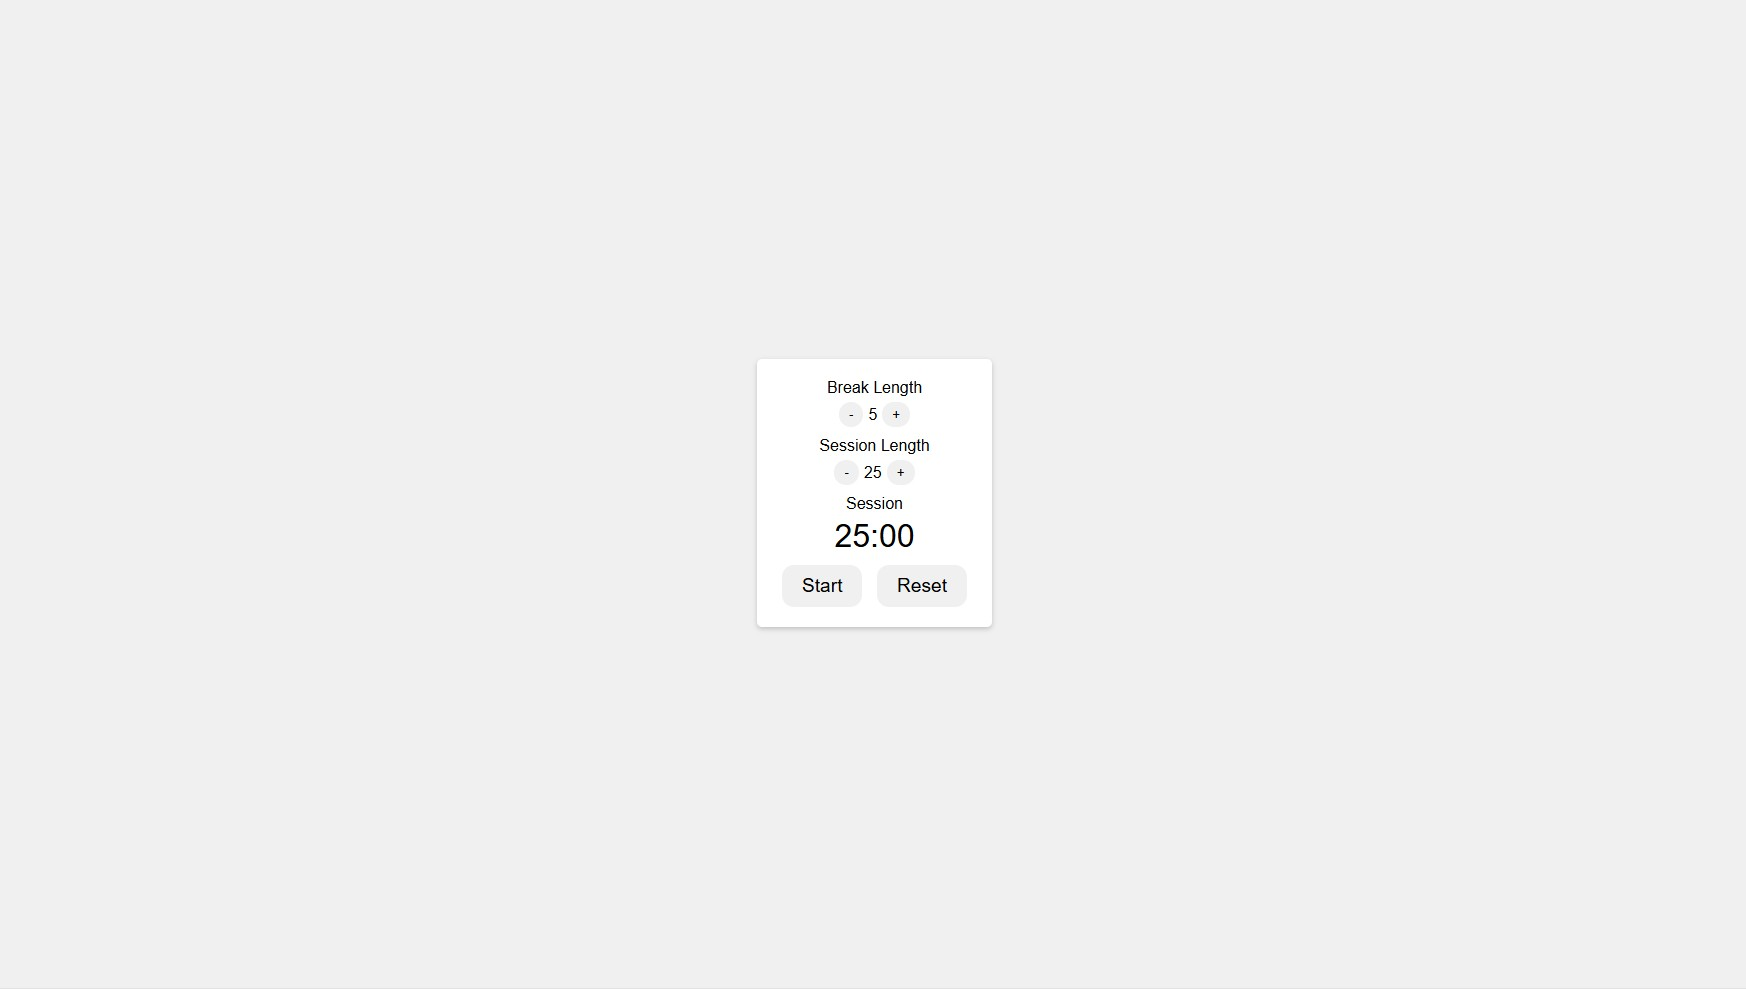
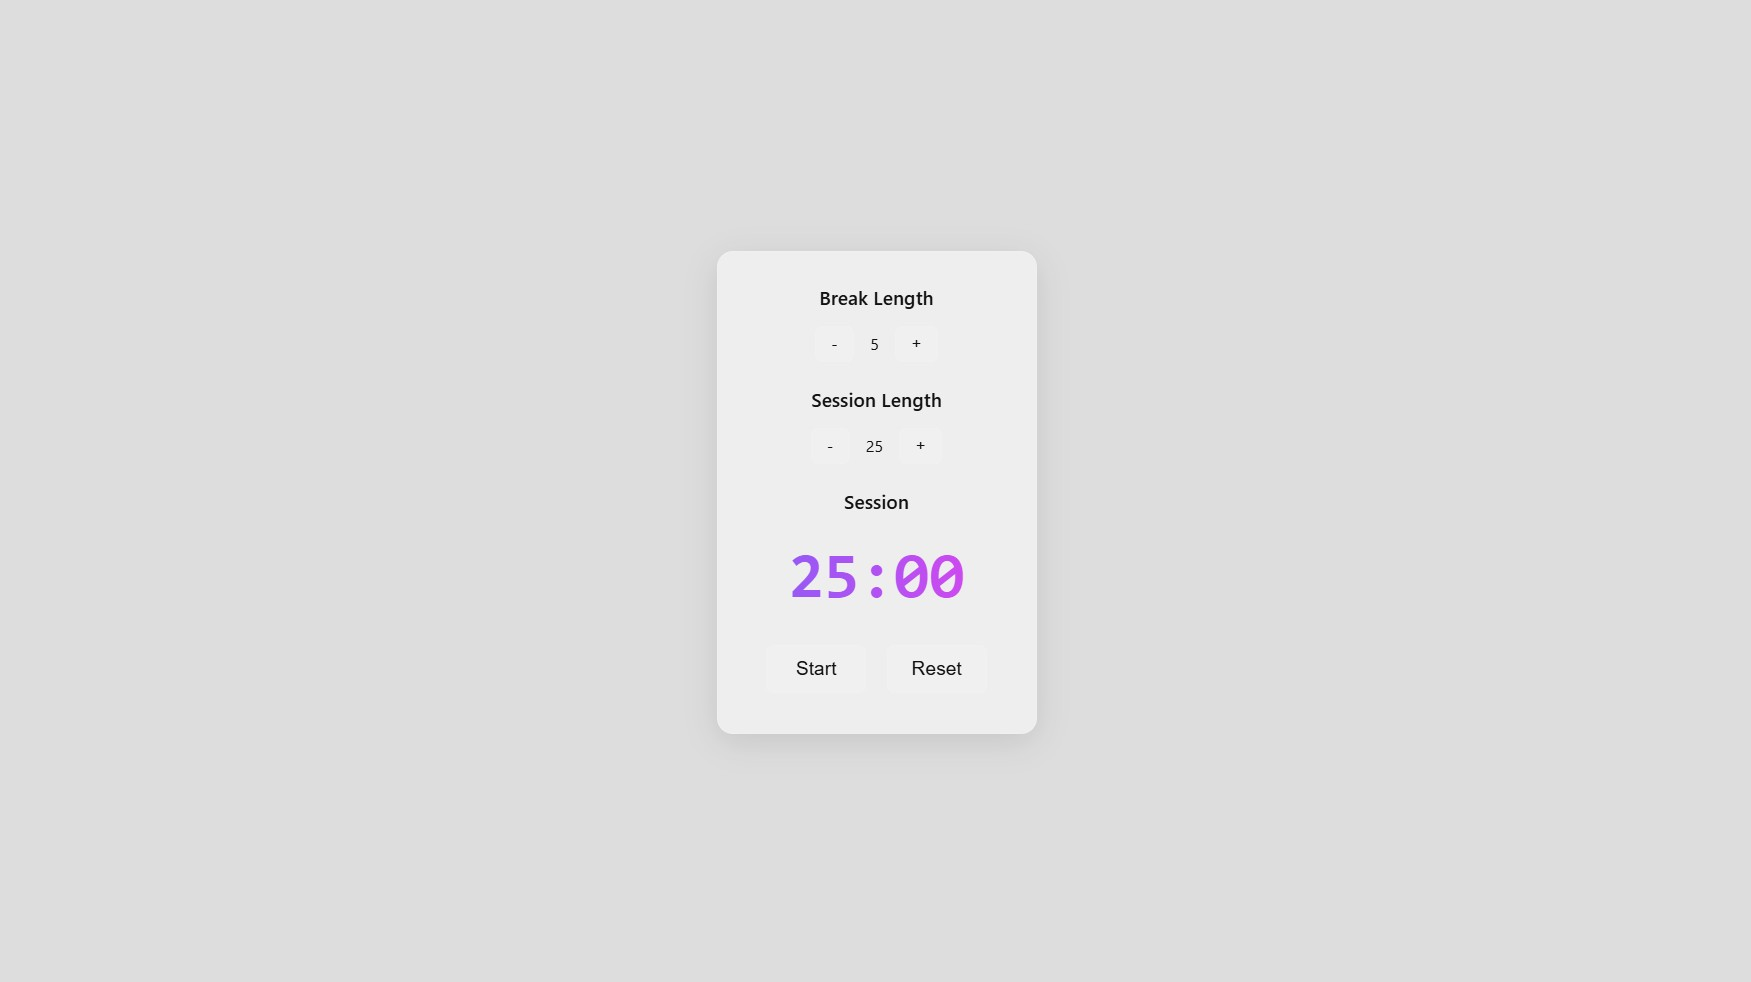
add pomodoro timer styles update

diff --git a/projects/pomodoro/script.js b/projects/pomodoro/script.js
@@ -1,95 +1,104 @@
 const timer = {
-    breakLength: 5,
-    sessionLength: 25,
-    timeLeft: 25 * 60, // Time in seconds
-    timerLabel: "Session",
-    running: false,
-    intervalId: null,
-    beep: document.getElementById("beep"),
+  breakLength: 5,
+  sessionLength: 25,
+  timeLeft: 25 * 60, // Time in seconds
+  timerLabel: "Session",
+  running: false,
+  intervalId: null,
+  beep: document.getElementById("beep"),
+  progressBg: document.querySelector('.progress-background'),
+  initialTime: 25 * 60, // Store initial time for progress calculation
   
-    updateDisplay: function() {
+  updateProgress: function() {
+      const progress = (this.timeLeft / this.initialTime) * 100;
+      const translateX = 100 - progress; // Inverse the progress for left-to-right movement
+      this.progressBg.style.transform = `translateX(${translateX}%)`;
+  },
+  updateDisplay: function() {
       const minutes = Math.floor(this.timeLeft / 60);
       const seconds = this.timeLeft % 60;
       const formattedTime = `${minutes.toString().padStart(2, '0')}:${seconds.toString().padStart(2, '0')}`;
       document.getElementById("time-left").textContent = formattedTime;
-    },
-  
-    startStop: function() {
+      this.updateProgress();
+  },
+  startStop: function(reset) {
+    if(reset){
       this.running = !this.running;
-      document.getElementById("start_stop").textContent = this.running ? "Pause" : "Start";
-  
-      if (this.running) {
+    }
+    document.getElementById("start_stop").textContent = this.running ? "Pause" : "Start";
+    if (this.running) {
         this.intervalId = setInterval(() => {
-          this.timeLeft--;
-          this.updateDisplay();
-  
-          if (this.timeLeft < 0) {
-            clearInterval(this.intervalId);
-            this.beep.play();
-  
-            if (this.timerLabel === "Session") {
-              this.timerLabel = "Break";
-              this.timeLeft = this.breakLength * 60;
-            } else {
-              this.timerLabel = "Session";
-              this.timeLeft = this.sessionLength * 60;
+            this.timeLeft--;
+            this.updateDisplay();
+            if (this.timeLeft < 0) {
+                clearInterval(this.intervalId);
+                this.beep.play();
+                if (this.timerLabel === "Session") {
+                    this.timerLabel = "Break";
+                    this.timeLeft = this.breakLength * 60;
+                    this.initialTime = this.breakLength * 60;
+                } else {
+                    this.timerLabel = "Session";
+                    this.timeLeft = this.sessionLength * 60;
+                    this.initialTime = this.sessionLength * 60;
+                }
+                document.getElementById("timer-label").textContent = this.timerLabel;
+                this.updateDisplay();
+                this.startStop(false); // Auto-start the next timer
             }
-             this.updateDisplay();
-            this.startStop(); // Auto-start the next timer
-          }
         }, 1000);
-      } else {
+    } else {
         clearInterval(this.intervalId);
-      }
-    },
-  
-    reset: function() {
+    }
+  },
+  reset: function() {
       clearInterval(this.intervalId);
       this.running = false;
       document.getElementById("start_stop").textContent = "Start";
       this.breakLength = 5;
       this.sessionLength = 25;
       this.timeLeft = 25 * 60;
+      this.initialTime = 25 * 60;
       this.timerLabel = "Session";
+      document.getElementById("timer-label").textContent = this.timerLabel;
       this.updateDisplay();
       document.getElementById("break-length").textContent = this.breakLength;
       document.getElementById("session-length").textContent = this.sessionLength;
       this.beep.pause();
       this.beep.currentTime = 0;
-    },
-  
-    increment: function(type) {
+      this.progressBg.style.transform = 'translateX(-100%)';
+  },
+  increment: function(type) {
       const length = type === "break" ? "breakLength" : "sessionLength";
       if (this[length] < 60) {
-        this[length]++;
-        document.getElementById(`${type}-length`).textContent = this[length];
-        if (!this.running && type === "session") {
-          this.timeLeft = this[length] * 60;
-          this.updateDisplay();
-        }
+          this[length]++;
+          document.getElementById(`${type}-length`).textContent = this[length];
+          if (!this.running && type === "session") {
+              this.timeLeft = this[length] * 60;
+              this.initialTime = this[length] * 60;
+              this.updateDisplay();
+          }
       }
-    },
-  
-    decrement: function(type) {
+  },
+  decrement: function(type) {
       const length = type === "break" ? "breakLength" : "sessionLength";
       if (this[length] > 1) {
-        this[length]--;
-        document.getElementById(`${type}-length`).textContent = this[length];
-         if (!this.running && type === "session") {
-          this.timeLeft = this[length] * 60;
-          this.updateDisplay();
-        }
+          this[length]--;
+          document.getElementById(`${type}-length`).textContent = this[length];
+          if (!this.running && type === "session") {
+              this.timeLeft = this[length] * 60;
+              this.initialTime = this[length] * 60;
+              this.updateDisplay();
+          }
       }
-    },
-  };
-  
-  // Event listeners
-  document.getElementById("break-decrement").addEventListener("click", () => timer.decrement("break"));
-  document.getElementById("break-increment").addEventListener("click", () => timer.increment("break"));
-  document.getElementById("session-decrement").addEventListener("click", () => timer.decrement("session"));
-  document.getElementById("session-increment").addEventListener("click", () => timer.increment("session"));
-  document.getElementById("start_stop").addEventListener("click", () => timer.startStop());
-  document.getElementById("reset").addEventListener("click", () => timer.reset());
-  
-  // Initial display update
-  timer.updateDisplay();
+  },
+};
+// Event listeners
+document.getElementById("break-decrement").addEventListener("click", () => timer.decrement("break"));
+document.getElementById("break-increment").addEventListener("click", () => timer.increment("break"));
+document.getElementById("session-decrement").addEventListener("click", () => timer.decrement("session"));
+document.getElementById("session-increment").addEventListener("click", () => timer.increment("session"));
+document.getElementById("start_stop").addEventListener("click", () => timer.startStop(true));
+document.getElementById("reset").addEventListener("click", () => timer.reset());
+// Initial display update
+timer.updateDisplay();

diff --git a/projects/pomodoro/styles.css b/projects/pomodoro/styles.css
@@ -1,47 +1,120 @@
+:root {
+  --primary-bg: #DDDDDD;
+  --component-bg: rgba(255, 255, 255, 0.5);
+  --text-color: #121212;
+  --accent-1: #8B5CF6;
+  --accent-2: #D946EF;
+  --accent-3: #F97316;
+  --accent-4: #0EA5E9;
+}
+* {
+  margin: 0;
+  padding: 0;
+  box-sizing: border-box;
+}
 body {
-    font-family: sans-serif;
-    display: flex;
-    justify-content: center;
-    align-items: center;
-    min-height: 100vh;
-    margin: 0;
-    background-color: #f0f0f0;
-    border-radius: 32px;
-  }
-  
+  font-family: system-ui, -apple-system, sans-serif;
+  display: flex;
+  justify-content: center;
+  align-items: center;
+  min-height: 100vh;
+  margin: 0;
+  background-color: var(--primary-bg);
+  color: var(--text-color);
+  overflow: hidden;
+  position: relative;
+}
+.progress-background {
+  position: absolute;
+  top: 0;
+  left: -100%;
+  width: 100%;
+  height: 100%;
+  background: linear-gradient(to right, var(--accent-1), var(--accent-2));
+  z-index: 1;
+  transition: transform 1s linear;
+}
+#timer-container {
+  background-color: var(--component-bg);
+  padding: 2rem;
+  border-radius: 16px;
+  box-shadow: 0 8px 32px rgba(0, 0, 0, 0.1);
+  text-align: center;
+  backdrop-filter: blur(10px);
+  border: 1px solid rgba(255, 255, 255, 0.1);
+  z-index: 2;
+  min-width: 320px;
+}
+.label {
+  margin-bottom: 1rem;
+  font-size: 1.2rem;
+  font-weight: 500;
+}
+.length-control {
+  display: flex;
+  align-items: center;
+  justify-content: center;
+  margin-bottom: 1.5rem;
+  gap: 1rem;
+}
+button {
+  padding: 0.5rem 1rem;
+  border: none;
+  border-radius: 8px;
+  cursor: pointer;
+  background-color: rgba(255, 255, 255, 0.1);
+  color: var(--text-color);
+  font-size: 1rem;
+  transition: all 0.3s ease;
+  border: 1px solid rgba(255, 255, 255, 0.1);
+}
+button:hover {
+  background-color: rgba(255, 255, 255, 0.2);
+  transform: translateY(-2px);
+}
+.badge {
+  display: inline-block;
+  position: absolute;
+  top: 1rem;
+  left: 1rem;
+  padding: 0.5rem 1rem;
+  background-color: var(--accent-2);
+  color: var(--primary-bg);
+  border-radius: 9999px;
+  font-size: 0.875rem;
+  font-weight: 500;
+  margin-bottom: 1.5rem;
+}
+a{
+  text-decoration: none;
+  color: var(--primary);
+}
+#time-left {
+  font-size: 4rem;
+  font-weight: bold;
+  margin: 1.5rem 0;
+  font-family: monospace;
+  background: linear-gradient(to right, var(--accent-1), var(--accent-2));
+  -webkit-background-clip: text;
+  background-clip: text;
+  color: transparent;
+}
+#start_stop,
+#reset {
+  padding: 0.75rem 1.5rem;
+  font-size: 1.2rem;
+  margin: 0.5rem;
+  min-width: 100px;
+}
+@media (max-width: 480px) {
   #timer-container {
-    background-color: white;
-    padding: 20px;
-    border-radius: 5px;
-    box-shadow: 0 2px 5px rgba(0, 0, 0, 0.2);
-    text-align: center; /* Center the content */
+      padding: 1.5rem;
+      min-width: 280px;
   }
-  
-  .label {
-    margin-bottom: 5px;
-  }
-  
-  .length-control {
-    display: flex;
-    align-items: center;
-    justify-content: center;
-    margin-bottom: 10px;
-  }
-  
-  button {
-    padding: 5px 10px;
-    margin: 0 5px;
-    border: none;
-    border-radius: 12px;
-    cursor: pointer;
-  }
-  
   #time-left {
-    font-size: 2em;
-    margin-bottom: 10px;
+      font-size: 3rem;
   }
-  
-  #start_stop, #reset {
-    padding: 10px 20px;
-    font-size: 1.2em;
+  button {
+      padding: 0.4rem 0.8rem;
   }
+}

diff --git a/projects/pomodoro/index.html b/projects/pomodoro/index.html
@@ -1,39 +1,34 @@
-
 <!DOCTYPE html>
 <html lang="en">
     <head>
         <meta charset="UTF-8" />
         <meta name="viewport" content="width=device-width, initial-scale=1.0" />
-        <title>Daniel Hartgrove - Software Engineer & Designer</title>
-        <meta name="description" content="Portfolio showcasing software engineering and design work" />
+        <title>Pomodoro Timer</title>
+        <meta name="description" content="Interactive Pomodoro Timer with animations" />
         <link rel="stylesheet" href="./styles.css">
-        <link rel="icon" type="image/x-icon" href="./assets/favicon.png">
-        <script src="https://unpkg.com/lucide@latest"></script>
     </head>
     <body>
+        <div class="progress-background"></div>
+        <a class="badge" href="../index.html">Back to projects</a>
         <div id="timer-container">
             <div class="label" id="break-label">Break Length</div>
             <div class="length-control">
-            <button id="break-decrement">-</button>
-            <span id="break-length">5</span>
-            <button id="break-increment">+</button>
+                <button id="break-decrement">-</button>
+                <span id="break-length">5</span>
+                <button id="break-increment">+</button>
             </div>
-        
             <div class="label" id="session-label">Session Length</div>
             <div class="length-control">
-            <button id="session-decrement">-</button>
-            <span id="session-length">25</span>
-            <button id="session-increment">+</button>
+                <button id="session-decrement">-</button>
+                <span id="session-length">25</span>
+                <button id="session-increment">+</button>
             </div>
-        
             <div class="label" id="timer-label">Session</div>
             <div id="time-left">25:00</div>
-        
             <button id="start_stop">Start</button>
             <button id="reset">Reset</button>
-        
-            <audio id="beep" src="https://assets.mixkit.co/sfx/preview/mixkit-alarm-clock-beep-992.mp3"></audio> </div>
-        
+            <audio id="beep" src="https://assets.mixkit.co/sfx/preview/mixkit-alarm-clock-beep-992.mp3"></audio>
+        </div>
         <script src="script.js"></script>
     </body>
 </html>
